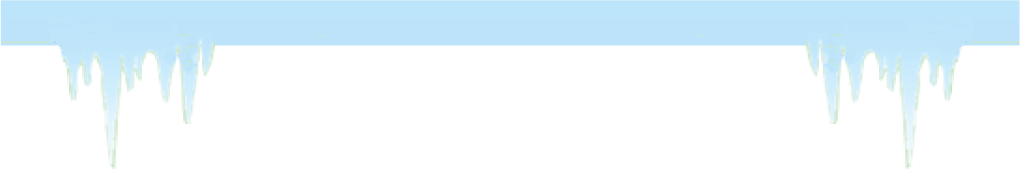
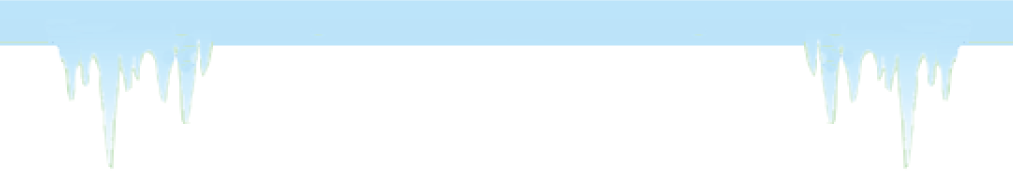
Tab 3: Show ice when friction is zero

diff --git a/simulations-java/simulations/forces-and-motion-basics/src/edu/colorado/phet/forcesandmotionbasics/motion/MotionCanvas.java b/simulations-java/simulations/forces-and-motion-basics/src/edu/colorado/phet/forcesandmotionbasics/motion/MotionCanvas.java
@@ -21,7 +21,6 @@ import edu.colorado.phet.common.phetcommon.model.clock.ClockAdapter;
 import edu.colorado.phet.common.phetcommon.model.clock.ClockEvent;
 import edu.colorado.phet.common.phetcommon.model.clock.IClock;
 import edu.colorado.phet.common.phetcommon.model.property.Property;
-import edu.colorado.phet.common.phetcommon.model.property.SettableProperty;
 import edu.colorado.phet.common.phetcommon.util.SimpleObserver;
 import edu.colorado.phet.common.phetcommon.util.function.VoidFunction1;
 import edu.colorado.phet.common.phetcommon.view.controls.PropertyCheckBox;
@@ -75,7 +74,6 @@ public class MotionCanvas extends AbstractForcesAndMotionBasicsCanvas implements
 
     //Features only for Tab 3: Friction:
     private final Property<Boolean> showSumOfForces = new Property<Boolean>( true );
-    private final SettableProperty<Double> frictionValue = new Property<Double>( 0.75 );
 
     public MotionCanvas( final Context context, final IClock clock, final boolean friction ) {
         this.friction = friction;
@@ -90,11 +88,24 @@ public class MotionCanvas extends AbstractForcesAndMotionBasicsCanvas implements
         final int grassY = 425;
         addChild( new SkyNode( createIdentity(), new Rectangle2D.Double( -width / 2, -width / 2 + grassY, width, width / 2 ), grassY, SkyNode.DEFAULT_TOP_COLOR, SkyNode.DEFAULT_BOTTOM_COLOR ) );
 
-        PNode brickLayer = new PNode() {{
-            model.position.addObserver( new VoidFunction1<Double>() {
-                public void apply( final Double position ) {
-                    removeAllChildren();
-                    //Extend the brick region an extra stage width to the left and right, in case it is a very odd aspect ratio.  (But no support for showing wider than that).
+        PNode brickLayer = new PNode() {
+            {
+                model.position.addObserver( new VoidFunction1<Double>() {
+                    public void apply( final Double position ) {
+                        updateBrickLayer( position );
+                    }
+                } );
+                model.frictionValue.addObserver( new VoidFunction1<Double>() {
+                    public void apply( final Double friction ) {
+                        updateBrickLayer( model.position.get() );
+                    }
+                } );
+            }
+
+            private void updateBrickLayer( final Double position ) {
+                removeAllChildren();
+                //Extend the brick region an extra stage width to the left and right, in case it is a very odd aspect ratio.  (But no support for showing wider than that).
+                {
                     final double brickScale = 0.4;
                     final Rectangle2D.Double area = new Rectangle2D.Double( -STAGE_SIZE.width / brickScale, grassY / brickScale, STAGE_SIZE.width * 3 / brickScale, Images.BRICK_TILE.getHeight() );
                     final Rectangle2D.Double anchor = new Rectangle2D.Double( -position * 100 / brickScale, area.getY(), Images.BRICK_TILE.getWidth(), Images.BRICK_TILE.getHeight() );
@@ -103,8 +114,20 @@ public class MotionCanvas extends AbstractForcesAndMotionBasicsCanvas implements
                     }};
                     addChild( path );
                 }
-            } );
-        }};
+
+                //Show ice overlay
+                if ( friction && model.frictionValue.get() == 0 ) {
+                    final double iceScale = 1;
+                    final Rectangle2D.Double area = new Rectangle2D.Double( -STAGE_SIZE.width / iceScale, grassY / iceScale - 1, STAGE_SIZE.width * 3 / iceScale, Images.ICE_OVERLAY.getHeight() );
+                    final Rectangle2D.Double anchor = new Rectangle2D.Double( -position * 100 / iceScale, area.getY(), Images.ICE_OVERLAY.getWidth(), Images.ICE_OVERLAY.getHeight() );
+                    PhetPPath path = new PhetPPath( area, new TexturePaint( Images.ICE_OVERLAY, anchor ) ) {{
+                        scale( iceScale );
+                    }};
+                    path.setTransparency( 0.9f );
+                    addChild( path );
+                }
+            }
+        };
         addChild( brickLayer );
 
         PNode clouds = new PNode() {{
@@ -141,7 +164,7 @@ public class MotionCanvas extends AbstractForcesAndMotionBasicsCanvas implements
         final HBox title = new HBox( 5, new PhetPPath( new Rectangle2D.Double( 0, 0, 0, 0 ) ), new PhetPText( "Show", CONTROL_FONT ) );
 
         final VBox vbox = friction ?
-                          new VBox( 2, VBox.LEFT_ALIGNED, title, new PSwing( showForcesCheckBox ), new PSwing( showValuesCheckBox ), new PSwing( showSumOfForcesCheckBox ), new PSwing( speedCheckBox ), new FrictionSliderControl( frictionValue ) ) :
+                          new VBox( 2, VBox.LEFT_ALIGNED, title, new PSwing( showForcesCheckBox ), new PSwing( showValuesCheckBox ), new PSwing( showSumOfForcesCheckBox ), new PSwing( speedCheckBox ), new FrictionSliderControl( model.frictionValue ) ) :
                           new VBox( 2, VBox.LEFT_ALIGNED, title, new PSwing( showForcesCheckBox ), new PSwing( showValuesCheckBox ), new PSwing( speedCheckBox ) );
 
         final ControlPanelNode controlPanelNode = new ControlPanelNode( vbox, new Color( 227, 233, 128 ), new BasicStroke( 2 ), Color.black );

diff --git a/simulations-java/simulations/forces-and-motion-basics/src/edu/colorado/phet/forcesandmotionbasics/motion/MotionModel.java b/simulations-java/simulations/forces-and-motion-basics/src/edu/colorado/phet/forcesandmotionbasics/motion/MotionModel.java
@@ -4,6 +4,7 @@ import fj.F;
 import fj.Unit;
 
 import edu.colorado.phet.common.phetcommon.model.property.Property;
+import edu.colorado.phet.common.phetcommon.model.property.SettableProperty;
 import edu.colorado.phet.common.phetcommon.model.property.doubleproperty.DoubleProperty;
 import edu.colorado.phet.common.phetcommon.util.Option;
 import edu.colorado.phet.common.phetcommon.util.Option.Some;
@@ -18,6 +19,9 @@ public class MotionModel {
     public final DoubleProperty position = new DoubleProperty( 0.0 );
     public final Property<Option<Double>> speed = new Property<Option<Double>>( new Some<Double>( 0.0 ) );
     public final F<Unit, Double> massOfObjectsOnSkateboard;
+
+    //Only used in Tab 3 "Friction"
+    public final SettableProperty<Double> frictionValue = new Property<Double>( 0.75 );
 
     public MotionModel( final F<Unit, Double> massOfObjectsOnSkateboard ) {
         this.massOfObjectsOnSkateboard = massOfObjectsOnSkateboard;
